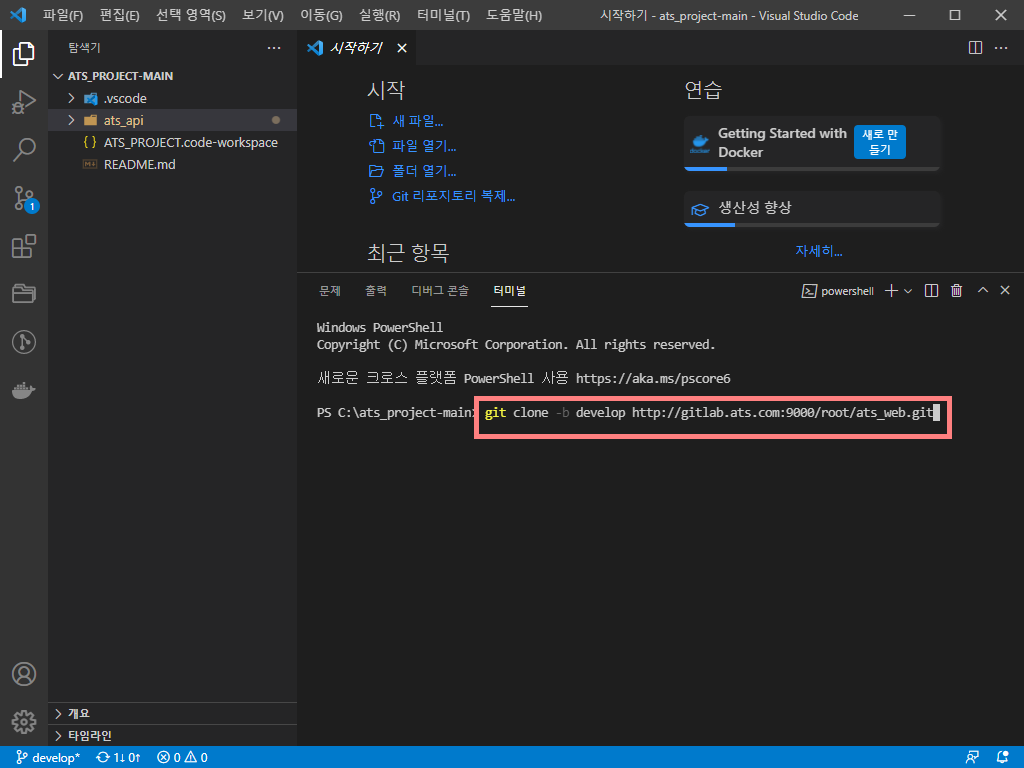
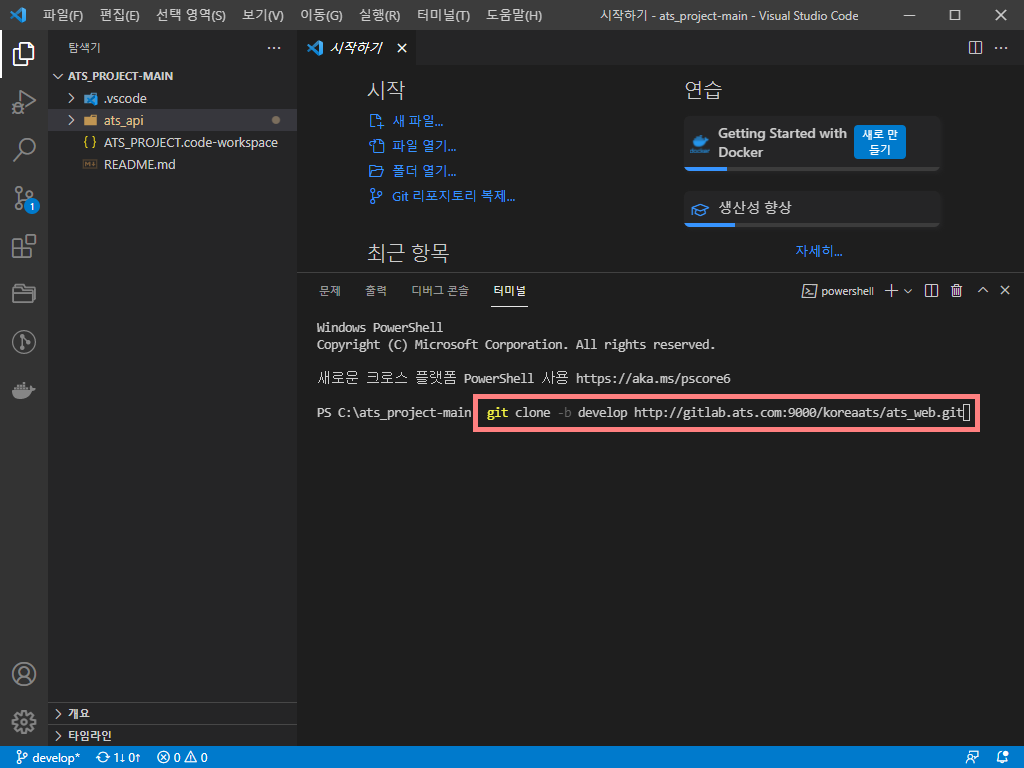
GitBook: [#14] auto install batch guide

Changed region(s): [[0.4688, 0.5, 0.9688, 0.5938]]

diff --git a/gitlab/undefined/ats_api.md b/gitlab/undefined/ats_api.md
@@ -2,43 +2,43 @@
 description: ATS_API 환경 설정
 ---
 
-# ATS\_API 내려받기
+# ATS\_API 수동설치
 
 #### 1. "Visual Studio Code" 검색 후 실행&#x20;
 
-![](../.gitbook/assets/exs\_01.png)
+![](../../.gitbook/assets/exs\_01.png)
 
 #### 2. "파일(F)" --> "폴더 열기" 클릭&#x20;
 
-![](../.gitbook/assets/exs\_02.png)
+![](../../.gitbook/assets/exs\_02.png)
 
 #### 3. "로컬 디스크(C:)" 폴더에서 "ats\_project-main" 선택 후 "폴더 선택" 버튼 클릭&#x20;
 
-![](../.gitbook/assets/exs\_03.png)
+![](../../.gitbook/assets/exs\_03.png)
 
 #### 4. 체크박스 체크 후 "예, 작성자를 신뢰합니다." 버튼 클릭 &#x20;
 
-![](../.gitbook/assets/gd\_00.png)
+![](../../.gitbook/assets/gd\_00.png)
 
 #### 5. "터미널(T)" --> "새 터미널" 클릭&#x20;
 
-![](../.gitbook/assets/gd\_01.png)
+![](../../.gitbook/assets/gd\_01.png)
 
-#### 6. 터미널에 "git clone -b develop http://gitlab.ats.com:9000/root/ats\_api.git" 명령어 실행&#x20;
+#### 6. 터미널에 "git clone -b develop http://gitlab.ats.com:9000/koreaats/ats\_api.git" 명령어 실행&#x20;
 
 ```
-git clone -b develop http://gitlab.ats.com:9000/root/ats_api.git
+git clone -b develop http://gitlab.ats.com:9000/koreaats/ats_api.git
 ```
 
-![](../.gitbook/assets/gd\_02.png)
+![](../../.gitbook/assets/gd\_02.png)
 
 #### 7. 가입한 아이디(or Username) 및 비밀번호 입력
 
-![](../.gitbook/assets/gd\_03.png)
+![](../../.gitbook/assets/gd\_03.png)
 
 #### 8. "ats\_api" 폴더와 파일이 생성 되었는지 확인, 모든 설치가 끝났는지 확인 &#x20;
 
-![](../.gitbook/assets/gd\_04.png)
+![](../../.gitbook/assets/gd\_04.png)
 
 #### 9. 터미널에 "cd ats\_api" -> "npm install" 명령어 실행&#x20;
 
@@ -47,48 +47,48 @@ cd ats_api
 npm install
 ```
 
-![](../.gitbook/assets/gd\_05.png)
+![](../../.gitbook/assets/gd\_05.png)
 
 #### 10. "node\_modules" 폴더와 파일이 생성 되었는지 확인, 모든 설치가 끝났는지 확인 &#x20;
 
-![](../.gitbook/assets/gd\_06.png)
+![](../../.gitbook/assets/gd\_06.png)
 
 #### 11. "파일(F)" --> "파일에서 작업 영역 열기..." 클릭&#x20;
 
-![](../.gitbook/assets/gd\_07.png)
+![](../../.gitbook/assets/gd\_07.png)
 
 #### 12. "내 PC/로컬 디스크 (C:)/ats\_project-main/" 폴더의 "ATS\_PROJECT.code-workspace" 열기&#x20;
 
-![](../.gitbook/assets/gd\_08.png)
+![](../../.gitbook/assets/gd\_08.png)
 
 #### 13. "파일(F)" --> "작업 영역에 폴더 추가..." 클릭 &#x20;
 
-![](../.gitbook/assets/gd\_09.png)
+![](../../.gitbook/assets/gd\_09.png)
 
 #### 14. "내 PC/로컬 디스크 (C:)/ats\_project-main/" 폴더의 "ats\_api" 폴더 선택 후 "추가(A)" 버튼 클릭&#x20;
 
-![](../.gitbook/assets/gd\_10.png)
+![](../../.gitbook/assets/gd\_10.png)
 
 #### 15. "ATS\_PROJECT(작업 영역)" 확인&#x20;
 
-![](../.gitbook/assets/gd\_11.png)
+![](../../.gitbook/assets/gd\_11.png)
 
 #### 16. 상단의 "..." 버튼 클릭 --> "Npm 스크립트" 클릭&#x20;
 
-![](../.gitbook/assets/gd\_12.png)
+![](../../.gitbook/assets/gd\_12.png)
 
 #### 17. 하단의 NPM 스크립트 start 실행 버튼 클릭&#x20;
 
-![](../.gitbook/assets/gd\_13.png)
+![](../../.gitbook/assets/gd\_13.png)
 
 #### 18. 터미널에 started 메세지 확인&#x20;
 
-![](../.gitbook/assets/gd\_14.png)
+![](../../.gitbook/assets/gd\_14.png)
 
 #### 19. 웹 브라우저에 "http://localhost:3001" 입력 후 접속 확인 &#x20;
 
-![](../.gitbook/assets/gd\_15.png)
+![](../../.gitbook/assets/gd\_15.png)
 
 #### 20. 터미널의 종료 버튼(휴지통 모양) 클릭해서 서버 종료 &#x20;
 
-![](../.gitbook/assets/gd\_16.png)
+![](../../.gitbook/assets/gd\_16.png)

diff --git a/gitlab/undefined/ats_web.md b/gitlab/undefined/ats_web.md
@@ -2,43 +2,43 @@
 description: ATS_WEB 환경 설정
 ---
 
-# ATS\_WEB 내려받기
+# ATS\_WEB 수동설치
 
 #### 1. "Visual Studio Code" 검색 후 실행 &#x20;
 
-![](../.gitbook/assets/exs\_01.png)
+![](../../.gitbook/assets/exs\_01.png)
 
 #### 2. "파일(F)" --> "폴더 열기" 클릭&#x20;
 
-![](../.gitbook/assets/exs\_02.png)
+![](../../.gitbook/assets/exs\_02.png)
 
 #### 3. "로컬 디스크(C:)" 폴더에서 "ats\_project-main" 선택 후 "폴더 선택" 버튼 클릭&#x20;
 
-![](../.gitbook/assets/exs\_03.png)
+![](../../.gitbook/assets/exs\_03.png)
 
 #### 4. 체크박스 체크 후 "예, 작성자를 신뢰합니다." 버튼 클릭 &#x20;
 
-![](../.gitbook/assets/gd\_00.png)
+![](../../.gitbook/assets/gd\_00.png)
 
 #### 5. "터미널(T)" --> "새 터미널" 클릭&#x20;
 
-![](../.gitbook/assets/gc2\_01.png)
+![](../../.gitbook/assets/gc2\_01.png)
 
-#### 6. 터미널에 "git clone -b develop http://gitlab.ats.com:9000/root/ats\_web.git" 명령어 실행 &#x20;
+#### 6. 터미널에 "git clone -b develop http://gitlab.ats.com:9000/koreaats/ats\_web.git" 명령어 실행 &#x20;
 
 ```
-git clone -b develop http://gitlab.ats.com:9000/root/ats_web.git
+git clone -b develop http://gitlab.ats.com:9000/koreaats/ats_web.git
 ```
 
-![](../.gitbook/assets/gc2\_02.png)
+![](../../.gitbook/assets/gc2\_02.png)
 
 #### 7. 가입한 아이디(or Username) 및 비밀번호 입력
 
-![](../.gitbook/assets/gd\_03.png)
+![](../../.gitbook/assets/gd\_03.png)
 
 #### 8. "ats\_web" 폴더와 파일이 생성 되었는지 확인, 모든 설치가 끝났는지 확인 &#x20;
 
-![](../.gitbook/assets/gc2\_03.png)
+![](../../.gitbook/assets/gc2\_03.png)
 
 #### 9. 터미널에 "cd ats\_web" -> "npm install" 명령어 실행 &#x20;
 
@@ -47,45 +47,45 @@ cd ats_web
 npm install
 ```
 
-![](../.gitbook/assets/gc2\_04.png)
+![](../../.gitbook/assets/gc2\_04.png)
 
 #### 10. "node\_modules" 폴더와 파일이 생성 되었는지 확인, 모든 설치가 끝났는지 확인 &#x20;
 
-![](../.gitbook/assets/gc2\_05.png)
+![](../../.gitbook/assets/gc2\_05.png)
 
 #### 11. "파일(F)" --> "파일에서 작업 영역 열기..." 클릭&#x20;
 
-![](../.gitbook/assets/gc2\_06.png)
+![](../../.gitbook/assets/gc2\_06.png)
 
 #### 12. "내 PC/로컬 디스크 (C:)/ats\_project-main/" 폴더의 "ATS\_PROJECT.code-workspace" 열기&#x20;
 
-![](../.gitbook/assets/gc2\_07.png)
+![](../../.gitbook/assets/gc2\_07.png)
 
 #### 13. "파일(F)" --> "작업 영역에 폴더 추가..." 클릭 &#x20;
 
-![](../.gitbook/assets/gc2\_08.png)
+![](../../.gitbook/assets/gc2\_08.png)
 
 #### 14. "내 PC/로컬 디스크 (C:)/ats\_project-main/" 폴더의 "ats\_web" 폴더 선택 후 "추가(A)" 버튼 클릭&#x20;
 
-![](../.gitbook/assets/gc2\_09.png)
+![](../../.gitbook/assets/gc2\_09.png)
 
 #### 15. "ATS\_PROJECT(작업 영역)" 확인&#x20;
 
-![](../.gitbook/assets/gc2\_10.png)
+![](../../.gitbook/assets/gc2\_10.png)
 
 #### 16. 상단의 "..." 버튼 클릭 --> "Npm 스크립트" 클릭&#x20;
 
-![](../.gitbook/assets/gc2\_11.png)
+![](../../.gitbook/assets/gc2\_11.png)
 
 #### 17. 하단의 NPM 스크립트 start 실행 버튼 클릭&#x20;
 
-![](../.gitbook/assets/gc2\_12.png)
+![](../../.gitbook/assets/gc2\_12.png)
 
 #### 18. "http://localhost:3000" 웹 화면 확인&#x20;
 
-![](../.gitbook/assets/gc2\_13.png)
+![](../../.gitbook/assets/gc2\_13.png)
 
 #### 19. 터미널의 종료 버튼(휴지통 모양) 클릭해서 서버 종료&#x20;
 
-![](../.gitbook/assets/gc2\_14.png)
+![](../../.gitbook/assets/gc2\_14.png)
 

diff --git a/gitlab/undefined/README.md b/gitlab/undefined/README.md
@@ -1,0 +1,45 @@
+---
+description: 자동으로 권한이 있는 모든 프로젝트 내려받기
+---
+
+# 권한이 있는 프로젝트 모두받기
+
+#### 1. "로컬 디스크 (C:)/ats\_project-main" 폴더의 "Setting.bat" 파일 실행&#x20;
+
+![](../../.gitbook/assets/auto\_01.png)
+
+#### 2. "추가 정보" 클릭&#x20;
+
+![](../../.gitbook/assets/auto\_02.png)
+
+#### 3. "실행" 버튼 클릭&#x20;
+
+![](../../.gitbook/assets/auto\_03.png)
+
+#### 4. 회원 가입한 GitLab 계의 Username 입력&#x20;
+
+![](../../.gitbook/assets/auto\_04.png)
+
+#### 5. 회원 가입한 GitLab 계정의 비밀번호 입력&#x20;
+
+![](../../.gitbook/assets/auto\_05.png)
+
+#### 6. "GitLab download complete" 메세지가 나올 때 까지 대기&#x20;
+
+![](../../.gitbook/assets/auto\_06.png)
+
+#### 7. "Visual Studio Code" 실행&#x20;
+
+![](../../.gitbook/assets/auto\_07.png)
+
+#### 8. "파일(F)" --> "파일에서 작업 영역 열기..." 클릭&#x20;
+
+![](../../.gitbook/assets/auto\_08.png)
+
+#### 9. "로컬 디스크 (C:)/ats\_project-main" 폴더의 "ATS\_PROJECT.code-workspace" 선택 후 열기&#x20;
+
+![](../../.gitbook/assets/auto\_09.png)
+
+#### 10. "ATS\_PROJECT"에 프로젝트 폴더가 생성 되었는지 확인, NPM 스크립트가 있는지 확인&#x20;
+
+![](../../.gitbook/assets/auto\_10.png)

diff --git a/SUMMARY.md b/SUMMARY.md
@@ -23,8 +23,9 @@
 
 ## GitLab 연결 가이드
 
-* [ATS\_API 내려받기](gitlab/ats\_api.md)
-* [ATS\_WEB 내려받기](gitlab/ats\_web.md)
+* [권한이 있는 프로젝트 모두받기](gitlab/undefined/README.md)
+  * [ATS\_API 수동설치](gitlab/undefined/ats\_api.md)
+  * [ATS\_WEB 수동설치](gitlab/undefined/ats\_web.md)
 * [GitLab Push](gitlab/gitlab-push.md)
 
 ## VS Code 확장 프로그램 가이드
